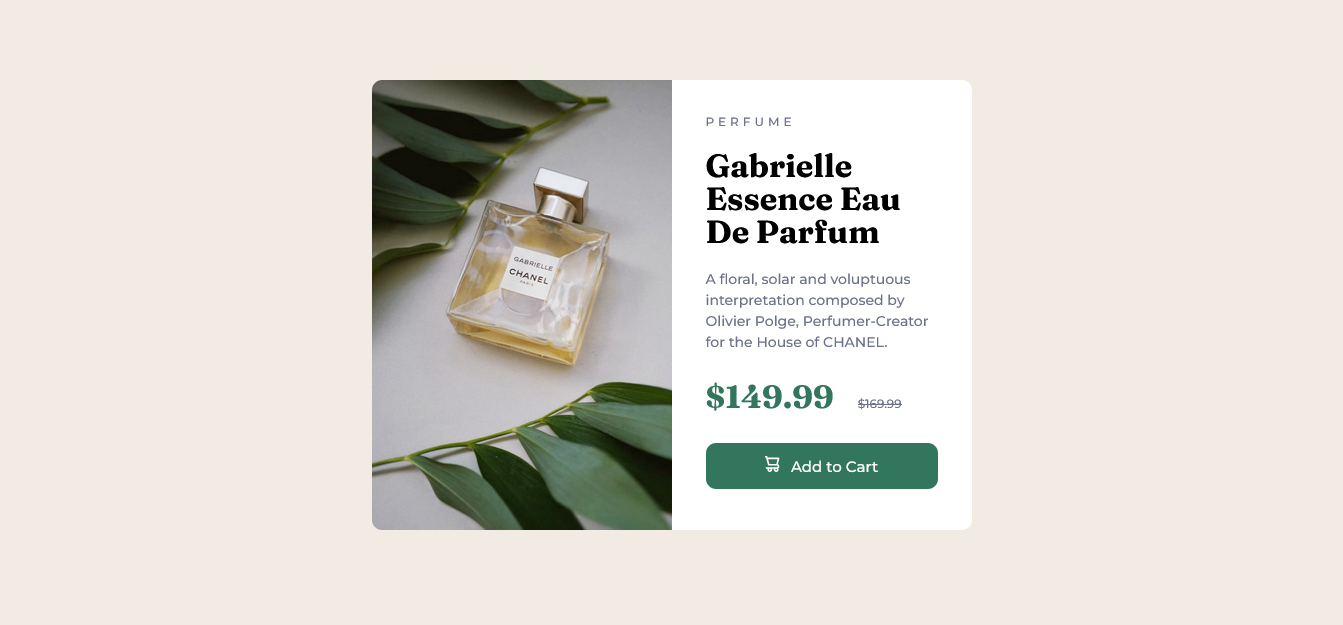
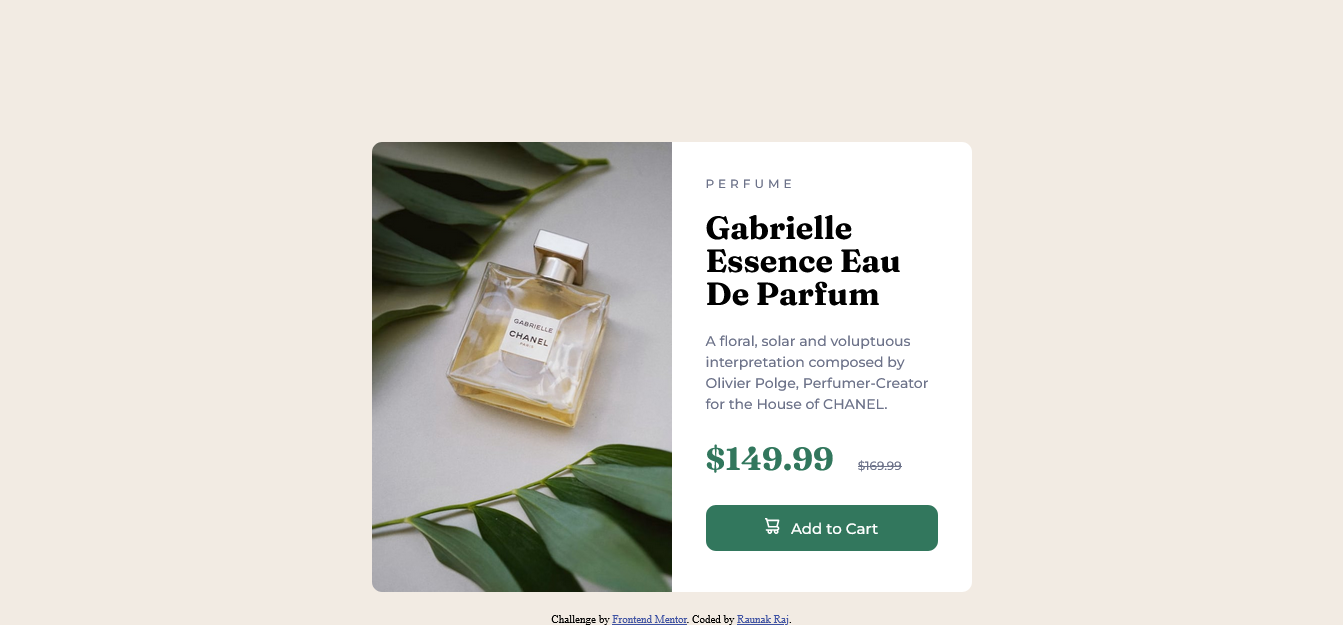
Improved README

Changed region(s): [[0.2748, 0.1216, 0.7327, 1.0]]

diff --git a/style.css b/style.css
@@ -94,7 +94,7 @@ p{
     flex-shrink: 0;
     width: 600px;
     height: 450px;
-    margin: 185px auto;
+    margin: 185px auto 20px;
   }
   .main-image{
     background-image: url("images/image-product-desktop.jpg");

diff --git a/README.md b/README.md
@@ -26,8 +26,7 @@ Users should be able to:
 
 ### Screenshot
 
-![](final-designs/Mobile-preview.png)
-![](final-designs/Desktop-preview.png)
+![](final-designs/Mobile-preview.png) ![](final-designs/Desktop-preview.png)
 
 ### Links
 
@@ -59,5 +58,5 @@ There are so many things which I have to continue learning like responsiveness, 
 
 ## Author
 
-- Website - [Add your name here](https://www.your-site.com)
+- Website - [Raunak Raj](https://www.your-site.com)
 - Frontend Mentor - [@Raunak40](https://www.frontendmentor.io/profile/Raunak40)
